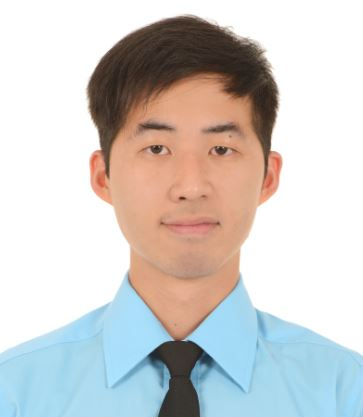
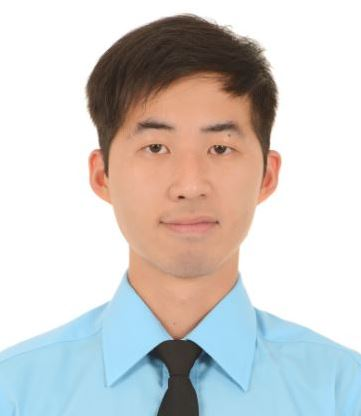
photo test2

diff --git a/index.html b/index.html
@@ -153,7 +153,7 @@
         <div class="row">
           <div class="col-lg-6 col-md-6 col-sm-12 col-xs-12">
             <div class="img-thumb wow fadeInLeft" data-wow-delay="0.3s">
-              <img class="img-fluid" src="assets/img/about/1.jpg" alt="">
+              <img class="img-fluid" src="assets/img/about/大頭貼.JPG" alt="">
             </div>
           </div> 
           <div class="col-lg-6 col-md-6 col-sm-12 col-xs-12">
